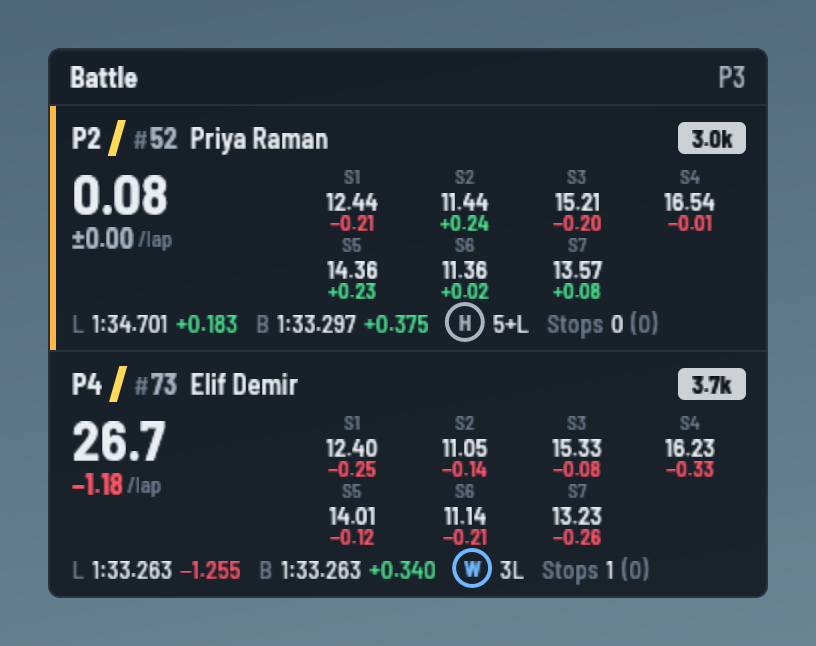
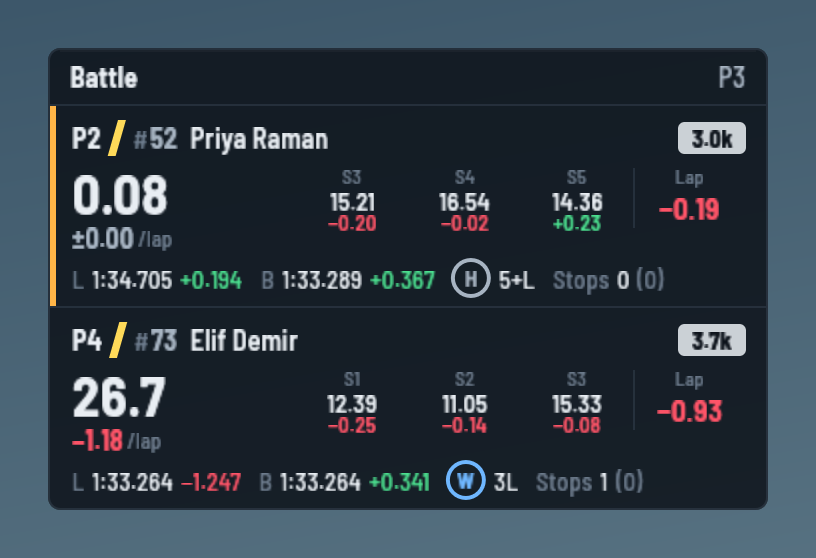
Battle: the last three sectors and this lap's change
Each car now shows only the three sectors just finished by whichever of you
is behind on track (so you've both driven them), and a Lap cell: how much
the gap has changed since your lap began, live, back to 0 each lap. The
panel is a row shorter on tracks with many sectors.

Claude-Session: https://claude.ai/code/session_013hzfFXxra7Gh1adzFYjA4b

diff --git a/app/src/widgets/battle.rs b/app/src/widgets/battle.rs
@@ -1,7 +1,10 @@
 //! Battle (`src/widgets/Battle.tsx`): the cars directly ahead of and behind you
 //! in your class (ahead on top). For each, the gap now, how much it changes per
-//! lap, their latest sector times and last and best laps against yours, their
-//! tyres and stops. Only what the timing shows: no predictions.
+//! lap, their times through the last three sectors and how much the gap has
+//! changed so far this lap, their last and best laps against yours, their tyres
+//! and stops. Only what the timing shows: no predictions.
+
+use std::collections::HashMap;
 
 use egui::{Align, Align2, Painter, Pos2, Rangef, Rect, Stroke, Vec2};
 use telemetry::model::StandingRow;
@@ -20,14 +23,20 @@ const W: f32 = 360.0;
 const NEAR_S: f32 = 2.0;
 /// The figures column's width; the sector times use the rest of the row.
 const FIGURES_W: f32 = 112.0;
-/// Each sector's cell is at least this wide; more sectors than fit wrap onto another row.
-const SECTOR_MIN_W: f32 = 56.0;
 const SECTOR_ROW_H: f32 = 34.0;
+/// How many of the latest sectors are shown.
+const SECTORS_SHOWN: usize = 3;
+/// A change in gap this big within one lap is a lap counted differently, not driving.
+const LAP_CHANGE_MAX: f32 = 30.0;
 
 #[derive(Default)]
 pub struct Battle {
     history: RaceHistory,
     seen: u64,
+    /// Your lap the baselines below are from.
+    my_lap: Option<i32>,
+    /// Each car's gap to you (seconds, positive when behind you) as your lap began.
+    lap_start: HashMap<i32, f32>,
 }
 
 #[derive(Clone, Copy, PartialEq)]
@@ -46,6 +55,8 @@ struct Shared<'a> {
     show_sectors: bool,
     show_laps: bool,
     show_tyres: bool,
+    /// Where each sector starts, as a fraction of the lap.
+    sector_starts: &'a [f32],
 }
 
 impl Widget for Battle {
@@ -57,6 +68,9 @@ impl Widget for Battle {
         let (Some(field), Some(tick)) = (live.field.as_deref(), live.tick.as_deref()) else { return };
         let track = live.session.as_ref().map(|s| s.track_name.as_str()).unwrap_or("");
         self.history.push_field(field, tick.session_time, &format!("{track}|{}", field.clock.session_type));
+        if let Some(me) = field.standings.iter().find(|r| r.is_player) {
+            self.lap_mark(me, &field.standings);
+        }
     }
 
     fn draw(&mut self, p: &Painter, cx: &Ctx) -> Vec2 {
@@ -92,6 +106,7 @@ impl Widget for Battle {
             show_sectors: o.b("showSectors"),
             show_laps: o.b("showLaps"),
             show_tyres: o.b("showTyres"),
+            sector_starts: cx.live.session.as_ref().map(|s| s.sectors.as_slice()).unwrap_or(&[]),
         };
 
         let aside: Vec<_> = if me.class_position > 0 { vec![seg(format!("P{}", me.class_position), kit::aside_font(th), th.ink2)] } else { Vec::new() };
@@ -108,7 +123,44 @@ impl Widget for Battle {
     }
 }
 
+/// A car's gap to you on track: seconds, positive when it's behind you.
+fn gap_to_me(car: &StandingRow, me: &StandingRow) -> Option<f32> {
+    let live = |r: &StandingRow| if r.class_position == 1 { Some(0.0) } else { r.live_gap };
+    Some(live(car)? - live(me)?)
+}
+
+/// The sector a lap fraction is in, given where each sector starts.
+fn sector_at(starts: &[f32], pct: f32) -> usize {
+    starts.iter().rposition(|s| *s <= pct).unwrap_or(0)
+}
+
+/// The last `SECTORS_SHOWN` sectors finished before sector `current`, oldest first (all of
+/// them, in order, when the track has no more than that).
+fn latest_sectors(n: usize, current: usize) -> Vec<usize> {
+    if n <= SECTORS_SHOWN {
+        return (0..n).collect();
+    }
+    (1..=SECTORS_SHOWN).rev().map(|back| (current + n - back) % n).collect()
+}
+
 impl Battle {
+    /// When your lap changes, remembers every car's gap to you, to measure this lap's change from.
+    fn lap_mark(&mut self, me: &StandingRow, rows: &[StandingRow]) {
+        if me.lap <= 0 || self.my_lap == Some(me.lap) {
+            return;
+        }
+        self.my_lap = Some(me.lap);
+        self.lap_start = rows.iter().filter(|r| !r.is_player).filter_map(|r| Some((r.driver.car_idx, gap_to_me(r, me)?))).collect();
+    }
+
+    /// How much the gap to `car` has changed since your lap began: seconds, positive when you
+    /// gained on it (like a sector difference: their time minus yours).
+    fn lap_change(&self, car: &StandingRow, me: &StandingRow) -> Option<f32> {
+        let start = self.lap_start.get(&car.driver.car_idx)?;
+        let d = gap_to_me(car, me)? - start;
+        (d.abs() < LAP_CHANGE_MAX).then_some(d)
+    }
+
     /// One section from `top`; returns its height.
     #[allow(clippy::too_many_arguments)]
     fn opponent(&self, p: &Painter, th: &Theme, panel: &kit::Panel, top: f32, side: Side, car: Option<&StandingRow>, s: &Shared) -> f32 {
@@ -157,12 +209,20 @@ impl Battle {
         let facts = s.show_laps || s.show_tyres;
         let left = panel.x().min + 3.0 + 8.0;
         let right = panel.x().max - 10.0;
-        // Sector times beside the figures, in as many rows as they need.
-        let n_sectors = if s.show_sectors { car.sectors.len().max(me.sectors.len()) } else { 0 };
+        // The last three sectors beside the figures, then this lap so far. "Last" is as seen by
+        // whichever of you is behind on track, so both of you have been through them.
+        let n_all = car.sectors.len().max(me.sectors.len());
+        let shown: Vec<usize> = if s.show_sectors && n_all > 0 {
+            let trailing = match side {
+                Side::Ahead => me,
+                Side::Behind => car,
+            };
+            latest_sectors(n_all, sector_at(s.sector_starts, trailing.lap_pct))
+        } else {
+            Vec::new()
+        };
         let sectors_x = Rangef::new(left + FIGURES_W, right);
-        let per_row = ((sectors_x.span() / SECTOR_MIN_W).floor() as usize).max(1);
-        let sector_rows = n_sectors.div_ceil(per_row);
-        let main_h = 46f32.max(sector_rows as f32 * SECTOR_ROW_H);
+        let main_h = 46f32.max(if s.show_sectors { SECTOR_ROW_H } else { 0.0 });
         let height = 6.0 + 20.0 + 3.0 + main_h + if facts { 3.0 + 16.0 } else { 0.0 } + 6.0;
         let near = gap_now.is_some_and(|g| g < NEAR_S) && laps_apart == 0;
         if near {
@@ -215,8 +275,9 @@ impl Battle {
                 kit::text(p, Pos2::new(r.right() + 2.0, rate_y), Align2::LEFT_CENTER, "/lap", th.medium(11.0), th.ink3);
             }
         }
-        if n_sectors > 0 {
-            sectors(p, th, sectors_x, main_top, per_row, &car.sectors, &me.sectors, n_sectors);
+        if s.show_sectors {
+            let lap = if laps_apart == 0 { self.lap_change(car, me) } else { None };
+            sectors(p, th, sectors_x, main_top, &shown, &car.sectors, &me.sectors, lap);
         }
 
         // Facts: last and best laps against yours, tyre, stops.
@@ -274,16 +335,26 @@ impl Battle {
     }
 }
 
-/// Their latest time through each sector, and below it the difference to yours: red where they
-/// were faster than you, green where slower. `per_row` cells to a row across `x`, from `top`.
+/// Red where they were faster than you, green where slower (`d` is their time minus yours).
+fn diff_color(th: &Theme, d: f64) -> egui::Color32 {
+    if d < -0.0005 {
+        th.loss
+    } else if d > 0.0005 {
+        th.gain
+    } else {
+        th.ink2
+    }
+}
+
+/// Their time through each of the `shown` sectors with the difference to yours under it, then a
+/// last cell, "Lap": how much the gap has changed since your lap began (live, back to 0 each
+/// lap). One row across `x` from `top`.
 #[allow(clippy::too_many_arguments)]
-fn sectors(p: &Painter, th: &Theme, x: Rangef, top: f32, per_row: usize, theirs: &[Option<f32>], mine: &[Option<f32>], n: usize) {
-    let cols = per_row.min(n).max(1);
-    let cell_w = x.span() / cols as f32;
-    for k in 0..n {
-        let (row, col) = (k / cols, k % cols);
+fn sectors(p: &Painter, th: &Theme, x: Rangef, top: f32, shown: &[usize], theirs: &[Option<f32>], mine: &[Option<f32>], lap: Option<f32>) {
+    let cell_w = x.span() / (shown.len() + 1) as f32;
+    let y = top;
+    for (col, &k) in shown.iter().enumerate() {
         let cx = x.min + cell_w * (col as f32 + 0.5);
-        let y = top + row as f32 * SECTOR_ROW_H;
         let t = theirs.get(k).copied().flatten();
         let m = mine.get(k).copied().flatten();
         kit::text(p, Pos2::new(cx, y + 6.0), Align2::CENTER_CENTER, &format!("S{}", k + 1), th.medium(10.0), th.ink3);
@@ -291,14 +362,23 @@ fn sectors(p: &Painter, th: &Theme, x: Rangef, top: f32, per_row: usize, theirs:
         kit::text(p, Pos2::new(cx, y + 18.0), Align2::CENTER_CENTER, &time, th.semi(12.5), th.ink);
         if let (Some(t), Some(m)) = (t, m) {
             let d = (t - m) as f64;
-            let color = if d < -0.0005 {
-                th.loss
-            } else if d > 0.0005 {
-                th.gain
-            } else {
-                th.ink2
-            };
-            kit::text(p, Pos2::new(cx, y + 29.0), Align2::CENTER_CENTER, &signed(d, 2), th.semi(11.0), color);
+            kit::text(p, Pos2::new(cx, y + 29.0), Align2::CENTER_CENTER, &signed(d, 2), th.semi(11.0), diff_color(th, d));
+        }
+    }
+    // This lap so far, set apart by a thin rule.
+    let left = x.min + cell_w * shown.len() as f32;
+    let cx = left + cell_w / 2.0;
+    if !shown.is_empty() {
+        p.vline(left, Rangef::new(y + 2.0, y + 32.0), Stroke::new(1.0, th.line));
+    }
+    kit::text(p, Pos2::new(cx, y + 6.0), Align2::CENTER_CENTER, "Lap", th.medium(10.0), th.ink3);
+    match lap {
+        Some(d) => {
+            let d = d as f64;
+            kit::text(p, Pos2::new(cx, y + 22.0), Align2::CENTER_CENTER, &signed(d, 2), th.bold(15.0), diff_color(th, d));
+        }
+        None => {
+            kit::text(p, Pos2::new(cx, y + 22.0), Align2::CENTER_CENTER, "–", th.bold(15.0), th.ink2);
         }
     }
 }
@@ -316,6 +396,20 @@ fn sector_time(t: f64) -> String {
 #[cfg(test)]
 mod tests {
     use super::*;
+
+    #[test]
+    fn the_three_sectors_before_this_one() {
+        assert_eq!(latest_sectors(7, 0), vec![4, 5, 6]);
+        assert_eq!(latest_sectors(7, 2), vec![6, 0, 1]);
+        assert_eq!(latest_sectors(7, 5), vec![2, 3, 4]);
+        assert_eq!(latest_sectors(3, 1), vec![0, 1, 2]);
+        assert_eq!(latest_sectors(2, 1), vec![0, 1]);
+        let starts = [0.0, 0.3, 0.7];
+        assert_eq!(sector_at(&starts, 0.1), 0);
+        assert_eq!(sector_at(&starts, 0.3), 1);
+        assert_eq!(sector_at(&starts, 0.95), 2);
+        assert_eq!(sector_at(&[], 0.5), 0);
+    }
 
     #[test]
     fn sector_times_read_like_lap_times() {

diff --git a/app/src/settings/specs.rs b/app/src/settings/specs.rs
@@ -262,7 +262,7 @@ pub const SPECS: &[WidgetSpec] = &[
         experimental: false,
         options: &[
             OptionSpec { key: "trendLaps", label: "Change per lap measured over", help: None, kind: Kind::Number { min: 1.0, max: 10.0, step: 1.0, suffix: Some("laps") } },
-            OptionSpec { key: "showSectors", label: "Show sector times", help: Some("Their latest time through each sector, and the difference to yours: red where they were faster, green where slower"), kind: Kind::Toggle },
+            OptionSpec { key: "showSectors", label: "Show sector times", help: Some("Their times through the last three sectors with the difference to yours (red where they were faster, green where slower), and how much the gap has changed so far this lap"), kind: Kind::Toggle },
             OptionSpec { key: "showLaps", label: "Show last and best laps", help: None, kind: Kind::Toggle },
             OptionSpec { key: "showTyres", label: "Show tyres and stops", help: None, kind: Kind::Toggle },
         ],

diff --git a/README.md b/README.md
@@ -458,8 +458,12 @@ class position in the corner. For each car:
 - the gap now (or how many laps apart), and how much it has changed per lap
   over the last few laps (green when it's going your way: the car ahead coming
   back to you, or the car behind dropping away; red the other way);
-- their latest time through each sector, with the difference to yours under it
-  (red where they were faster, green where slower);
+- their times through the last three sectors, with the difference to yours
+  under each (red where they were faster, green where slower). "Last" is as
+  seen by whichever of you is behind on track, so you've both been through
+  them;
+- **Lap**: how much the gap has changed so far this lap, live, back to 0 each
+  time you start a lap (the same colors: green when you've gained on them);
 - their iRating;
 - their last (L) and best (B) laps, each with the difference to yours (green
   when theirs was slower);

diff --git a/CHANGELOG.md b/CHANGELOG.md
@@ -6,6 +6,7 @@ when you bump the version.
 
 ## Unreleased
 
+- Battle: shows only the last three sectors (the three just finished by whichever of you is behind on track, so you've both driven them) instead of every sector, and next to them **Lap**: how much the gap has changed so far this lap, live, back to 0 each time you start a new lap.
 - Two new themes in Settings → Appearance. **Night**: dim and warm for night stints and dark rooms, with nearly solid panels, amber text and nothing close to white, and the flag board, radar and tyre colours turned down so they don't glare. **'90s**: yellow and white on deep blue like the TV graphics of the time, with heavy condensed italic type, headings on slanted yellow tabs and positions in yellow and white boxes. Both have their own colour pickers like the other themes.
 
 ## 0.6.2
